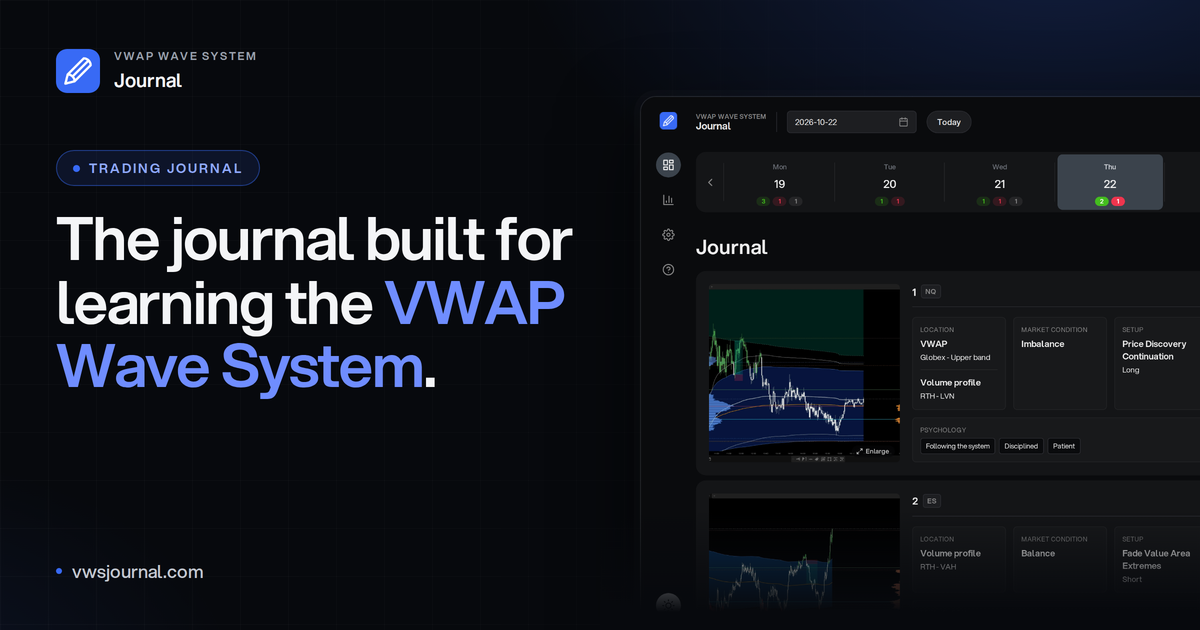
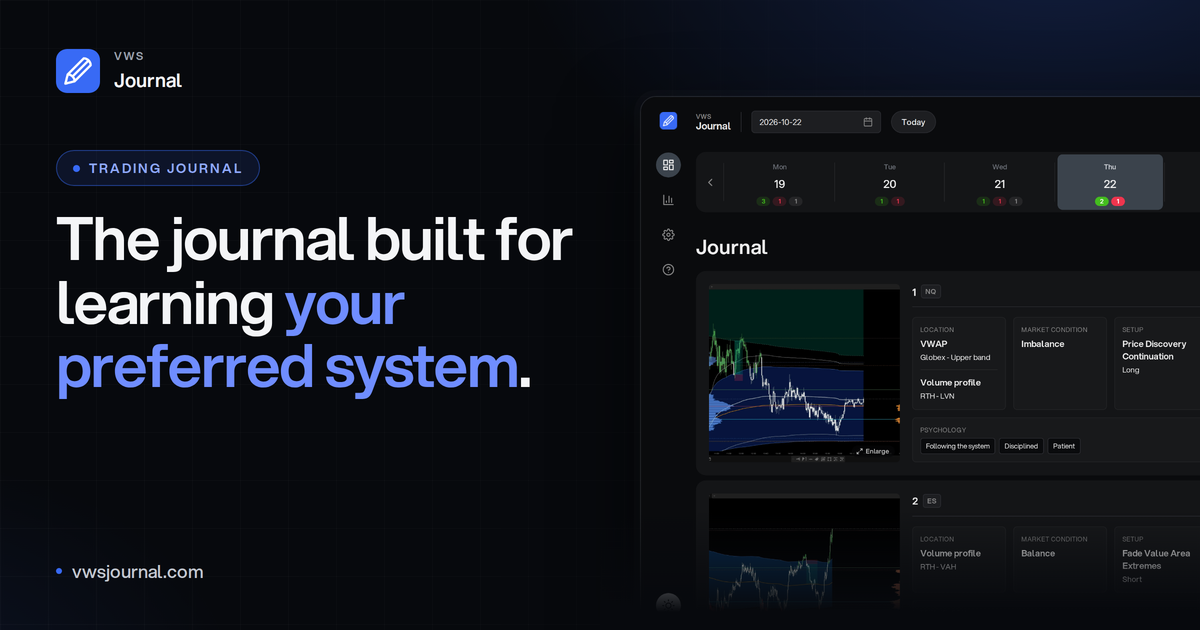
Add files via upload

diff --git a/index.html b/index.html
@@ -3,8 +3,8 @@
 <head>
     <meta charset="UTF-8">
     <meta name="viewport" content="width=device-width, initial-scale=1.0">
-    <title>VWAP Wave System Journal | Learn the system trade by trade</title>
-    <meta name="description" content="The journal built for learning the VWAP Wave System. Log every trade with its context: market condition, location, setup, evidence and psychology. Then track your progress.">
+    <title>VWS Journal | Learn your trading system, trade by trade</title>
+    <meta name="description" content="The journal built for learning your preferred system. Log every trade with your system context: market condition, location, setup, evidence and psychology. Then track your progress.">
     <link rel="canonical" href="https://vwsjournal.com/">
     <meta name="theme-color" content="#07090d">
     <link rel="icon" type="image/png" href="favicon.png">
@@ -12,17 +12,17 @@
 
     <!-- Link previews (Discord, WhatsApp, X, LinkedIn, ...) -->
     <meta property="og:type" content="website">
-    <meta property="og:site_name" content="VWAP Wave System Journal">
+    <meta property="og:site_name" content="VWS Journal">
     <meta property="og:url" content="https://vwsjournal.com/">
-    <meta property="og:title" content="The journal built for learning the VWAP Wave System">
-    <meta property="og:description" content="Log every trade with its VWAP Wave System context and track your progress. Private by design: no account, no cloud.">
+    <meta property="og:title" content="The journal built for learning your preferred system">
+    <meta property="og:description" content="Log every trade with your system context and track your progress. Private by design: no account, no cloud.">
     <meta property="og:image" content="https://vwsjournal.com/og-image.png">
     <meta property="og:image:width" content="1200">
     <meta property="og:image:height" content="630">
-    <meta property="og:image:alt" content="VWAP Wave System Journal: the journal built for learning the VWAP Wave System">
+    <meta property="og:image:alt" content="VWS Journal: the journal built for learning your preferred system">
     <meta name="twitter:card" content="summary_large_image">
-    <meta name="twitter:title" content="The journal built for learning the VWAP Wave System">
-    <meta name="twitter:description" content="Log every trade with its VWAP Wave System context and track your progress. Private by design: no account, no cloud.">
+    <meta name="twitter:title" content="The journal built for learning your preferred system">
+    <meta name="twitter:description" content="Log every trade with your system context and track your progress. Private by design: no account, no cloud.">
     <meta name="twitter:image" content="https://vwsjournal.com/og-image.png">
 
     <!-- Facts about the app for search engines and AI assistants -->
@@ -30,17 +30,17 @@
     {
         "@context": "https://schema.org",
         "@type": "WebApplication",
-        "name": "VWAP Wave System Journal",
+        "name": "VWS Journal",
         "url": "https://vwsjournal.com/",
         "image": "https://vwsjournal.com/og-image.png",
-        "description": "A journal for traders learning the VWAP Wave System. Each trade is logged with its system context (market condition, location, setup, direction, evidence, invalidation, target and psychology) to track progress in applying the system.",
+        "description": "A journal for traders learning their preferred trading system. Each trade is logged with its system context (market condition, location, setup, direction, evidence, invalidation, target and psychology) to track progress in applying the system.",
         "applicationCategory": "FinanceApplication",
         "operatingSystem": "Windows, macOS, Linux, ChromeOS",
         "browserRequirements": "Requires Google Chrome or Microsoft Edge on a desktop or laptop",
         "isAccessibleForFree": true,
         "offers": { "@type": "Offer", "price": "0", "priceCurrency": "USD" },
         "featureList": [
-            "Log every trade with its VWAP Wave System context",
+            "Log every trade with your system context",
             "A chart screenshot on every trade, including one-click capture of the charting window",
             "Track progress with 11 built-in charts and custom charts",
             "Customizable to your own use of the system",
@@ -71,7 +71,7 @@
             <div class="lp-wrap lp-nav-inner">
                 <a class="lp-brand" href="./">
                     <img src="favicon.png" alt="" width="32" height="32">
-                    <span>VWAP Wave System Journal</span>
+                    <span>VWS Journal</span>
                 </a>
                 <nav class="lp-nav-links" aria-label="Welcome page">
                     <a href="#lp-features" data-lp-scroll>Features</a>
@@ -85,8 +85,8 @@
         <main>
             <section class="lp-hero lp-wrap">
                 <p class="lp-pill"><span aria-hidden="true"></span>Free trading journal</p>
-                <h1>The journal built for learning the <span class="lp-accent">VWAP Wave System</span>.</h1>
-                <p class="lp-lead">Log every trade with its VWAP Wave System context: market condition, location, setup, evidence and psychology. Then track your progress.</p>
+                <h1>The journal built for learning <span class="lp-accent">your preferred system</span>.</h1>
+                <p class="lp-lead">Log every trade with your system context: market condition, location, setup, evidence and psychology. Then track your progress.</p>
                 <a class="lp-btn lp-btn-primary lp-btn-lg" href="#lp-start" data-lp-scroll>Get started</a>
                 <p class="lp-small">No account. Your trades stay on your computer. Works in Chrome and Edge on desktop.</p>
             </section>
@@ -99,7 +99,7 @@
 
             <section class="lp-context lp-wrap" aria-labelledby="lp-context-title">
                 <p class="lp-eyebrow">Not about P&amp;L, but about learning the system</p>
-                <h2 id="lp-context-title">Every trade is logged the way the VWAP Wave System is built.</h2>
+                <h2 id="lp-context-title">Every trade is logged the way your system is built.</h2>
                 <div class="lp-flow">
                     <ol class="lp-flow-group" aria-label="Always part of a trade">
                         <li><span class="lp-chip">Market condition</span></li>
@@ -124,7 +124,7 @@
             <section id="lp-features" class="lp-bento lp-wrap" aria-label="Features">
                 <article class="lp-tile lp-span-2">
                     <span class="lp-tag">Log a trade in seconds</span>
-                    <h3>Every trade with its VWAP Wave System context</h3>
+                    <h3>Every trade with its system context</h3>
                     <p>Market condition, location, setup, direction, evidence, invalidation, target and psychology, with one click each. The form follows the levels of the system, from VWAP to the band.</p>
                     <div class="lp-visual lp-v-context" aria-hidden="true">
                         <img class="lp-v-form" src="landing/form-location.webp" width="800" height="252" alt="" loading="lazy">
@@ -152,7 +152,7 @@
                 <article class="lp-tile lp-span-2">
                     <span class="lp-tag">Add custom charts</span>
                     <h3>Track your progress</h3>
-                    <p>11 built-in charts show how well you apply the VWAP Wave System: execution growth, results, setups and performance per day. Add your own custom charts for any question.</p>
+                    <p>11 built-in charts show how well you apply your system: execution growth, results, setups and performance per day. Add your own custom charts for any question.</p>
                     <div class="lp-visual lp-v-progress" aria-hidden="true">
                         <img class="lp-v-growth" src="landing/chart-growth.webp" width="1200" height="246" alt="" loading="lazy">
                         <img class="lp-v-winloss" src="landing/chart-winloss.webp" width="600" height="510" alt="" loading="lazy">
@@ -246,7 +246,7 @@
                             <p>The journal is made for a desktop or laptop: it saves your trades in a folder on your computer and takes screenshots of your chart window. Open it there in <strong>Google Chrome</strong> or <strong>Microsoft Edge</strong>.</p>
                             <div class="lp-cta-row">
                                 <button type="button" id="landing-copy" class="lp-btn lp-btn-primary">Copy link</button>
-                                <a id="landing-mail" class="lp-btn lp-btn-ghost" href="mailto:?subject=VWAP%20Wave%20System%20Journal&amp;body=https%3A%2F%2Fvwsjournal.com%2F">Email me the link</a>
+                                <a id="landing-mail" class="lp-btn lp-btn-ghost" href="mailto:?subject=VWS%20Journal&amp;body=https%3A%2F%2Fvwsjournal.com%2F">Email me the link</a>
                             </div>
                         </div>
                     </div>
@@ -331,7 +331,7 @@
             <header class="app-header">
                 <div class="header-left">
                     <div class="app-title">
-                        <span class="title-brand">VWAP WAVE SYSTEM</span>
+                        <span class="title-brand">VWS</span>
                         <span class="title-main">Journal</span>
                     </div>
                     <div class="header-divider"></div>
@@ -500,7 +500,7 @@
                 <section id="view-help" class="view">
                     <header class="view-header" style="margin-bottom: 16px;">
                         <h1>Help & FAQ</h1>
-                        <p class="help-text" style="margin-top:4px;">Everything you need to know about using the VWAP Wave System Journal.</p>
+                        <p class="help-text" style="margin-top:4px;">Everything you need to know about using VWS Journal.</p>
                     </header>
 
                     <div class="help-layout">

diff --git a/gate.js b/gate.js
@@ -150,7 +150,7 @@ function gateContent(variant) {
     if (variant === 'mobile') {
         return `
             <div class="gate-icon">${gateIcon('monitor')}</div>
-            <p class="gate-eyebrow">VWAP Wave System Journal</p>
+            <p class="gate-eyebrow">VWS Journal</p>
             <h2 id="connect-gate-title">Open the journal on your computer</h2>
             <p class="gate-lead">The journal is made for a desktop or laptop. It saves your trades in a folder on your computer and takes screenshots of your chart window. Open it there in <strong>Google Chrome</strong> or <strong>Microsoft Edge</strong>.</p>
             <div class="gate-url">${escapeHTML(gateAppLink().replace(/^https?:\/\//, '').replace(/\/$/, ''))}</div>
@@ -162,7 +162,7 @@ function gateContent(variant) {
         return `
             <div class="gate-icon">${gateIcon('monitor')}</div>
             <h2 id="connect-gate-title">Open this page in Chrome or Edge</h2>
-            <p class="gate-lead">The VWAP Wave System Journal saves your trades in a folder on your computer. That only works in Google Chrome or Microsoft Edge on a desktop or laptop, not in Safari, Firefox or on a phone.</p>
+            <p class="gate-lead">VWS Journal saves your trades in a folder on your computer. That only works in Google Chrome or Microsoft Edge on a desktop or laptop, not in Safari, Firefox or on a phone.</p>
             <div class="gate-url">vwsjournal.com</div>
             ${privacy}`;
     }
@@ -181,7 +181,7 @@ function gateContent(variant) {
 
     return `
         <div class="gate-icon">${gateIcon('folder')}</div>
-        <p class="gate-eyebrow">VWAP Wave System Journal</p>
+        <p class="gate-eyebrow">VWS Journal</p>
         <h2 id="connect-gate-title">Set up your journal</h2>
         <p class="gate-lead">Pick a folder on your computer. Every trade you log is saved there, so you're ready in under a minute.</p>
         <ol class="gate-steps">
@@ -208,7 +208,7 @@ function gateAppLink() {
 }
 
 function gateMailLink() {
-    const subject = 'VWAP Wave System Journal';
+    const subject = 'VWS Journal';
     const body = `Open the journal on my computer in Chrome or Edge: ${gateAppLink()}`;
     return `mailto:?subject=${encodeURIComponent(subject)}&body=${encodeURIComponent(body)}`;
 }

diff --git a/review/review.js b/review/review.js
@@ -130,7 +130,7 @@
                     <h2 class="review-block-title" data-count>${plural(count, 'review')}</h2>
                     <div data-reviews>${reviewsHtml(t.id)}</div>
                     <div class="review-form" data-form>
-                        <div class="review-verdicts" role="group" aria-label="Does this trade follow the VWAP Wave System?">
+                        <div class="review-verdicts" role="group" aria-label="Does this trade follow the system?">
                             <button type="button" class="verdict-btn follows" data-verdict="follows" aria-pressed="false">${VERDICTS.follows}</button>
                             <button type="button" class="verdict-btn not-follows" data-verdict="not_follows" aria-pressed="false">${VERDICTS.not_follows}</button>
                         </div>
@@ -150,11 +150,11 @@
         countdown.textContent = timeLeft(share.expiresAt);
         countdown.hidden = false;
         const sharedBy = String(share.sharedBy || '').trim().slice(0, MAX_NAME);
-        if (sharedBy) document.title = `Trades from ${sharedBy} - VWAP Wave System Journal`;
+        if (sharedBy) document.title = `Trades from ${sharedBy} - VWS Journal`;
         main.innerHTML = `
             <section class="review-intro">
                 <h1>${sharedBy ? `${esc(sharedBy)} shared ${plural(trades.length, 'trade')} for review` : `${plural(trades.length, 'trade')} shared for review`}</h1>
-                <p>Look at each trade and say whether it follows the VWAP Wave System. A short comment on why helps the trader most. Everyone with this link can see the reviews.</p>
+                <p>Look at each trade and say whether it follows the system. A short comment on why helps the trader most. Everyone with this link can see the reviews.</p>
             </section>
             <div class="review-name-row">
                 <label for="reviewer-name">Your name</label>

diff --git a/review/index.html b/review/index.html
@@ -4,7 +4,7 @@
     <meta charset="UTF-8">
     <meta name="viewport" content="width=device-width, initial-scale=1.0">
     <meta name="robots" content="noindex">
-    <title>Trade review - VWAP Wave System Journal</title>
+    <title>Trade review - VWS Journal</title>
     <link rel="icon" type="image/png" href="../favicon.png">
     <link rel="stylesheet" href="../styles.css">
     <link rel="stylesheet" href="review.css">
@@ -23,7 +23,7 @@
         <a class="review-brand" href="../">
             <img src="../favicon.png" alt="" class="review-logo" width="28" height="28">
             <span class="app-title">
-                <span class="title-brand">VWAP WAVE SYSTEM</span>
+                <span class="title-brand">VWS</span>
                 <span class="title-main">Trade review</span>
             </span>
         </a>

diff --git a/README.md b/README.md
@@ -1,8 +1,8 @@
-# VWAP Wave System Journal
+# VWS Journal
 
-**The journal built for learning the VWAP Wave System.**
+**The journal built for learning your preferred system.**
 
-Log every trade with its VWAP Wave System context: market condition, location, setup, direction, evidence, invalidation, target and psychology. Then track your progress in applying the system. The focus is not on profit and loss, but on learning to execute the system well.
+Log every trade with your system context: market condition, location, setup, direction, evidence, invalidation, target and psychology. Then track your progress in applying the system. The focus is not on profit and loss, but on learning to execute the system well.
 
 **Open the journal: [vwsjournal.com](https://vwsjournal.com)**
 
@@ -87,10 +87,20 @@ The journal is a static web app: plain HTML, CSS and JavaScript, hosted on GitHu
 | `settings.json` | Default settings |
 | `vendor/` | Chart.js 4.5.1 and Flatpickr 4.6.13, stored in the repo at a fixed version |
 
+### Running it locally
+
+Serve the folder with any static web server and open it in Chrome or Edge, for example:
+
+```bash
+python3 -m http.server 8000
+```
+
+Then go to `http://localhost:8000`. Folder access works on `localhost` as well.
+
 ## Support
 
 Questions, ideas or a bug? Mail **hello.ordercraft@gmail.com**.
 
 ## Made by Order Craft
 
-Order Craft makes tools for traders who want to get better at the VWAP Wave System, including [Stream Deck icons for DOM scalping](https://marketplace.elgato.com/@ordercraft).
+Order Craft makes tools for traders who want to get better at their trading system, including [Stream Deck icons for DOM scalping](https://marketplace.elgato.com/@ordercraft).
